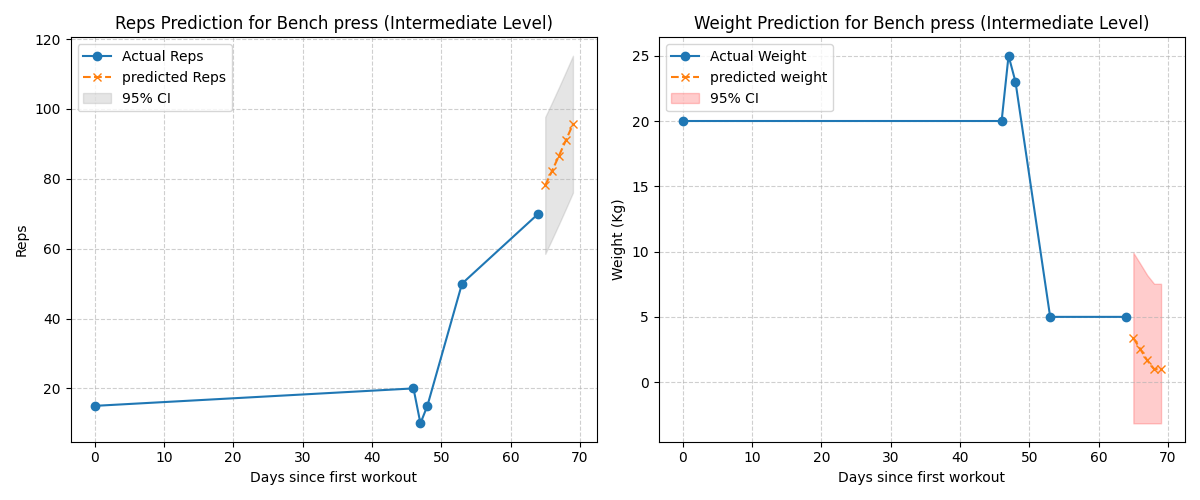
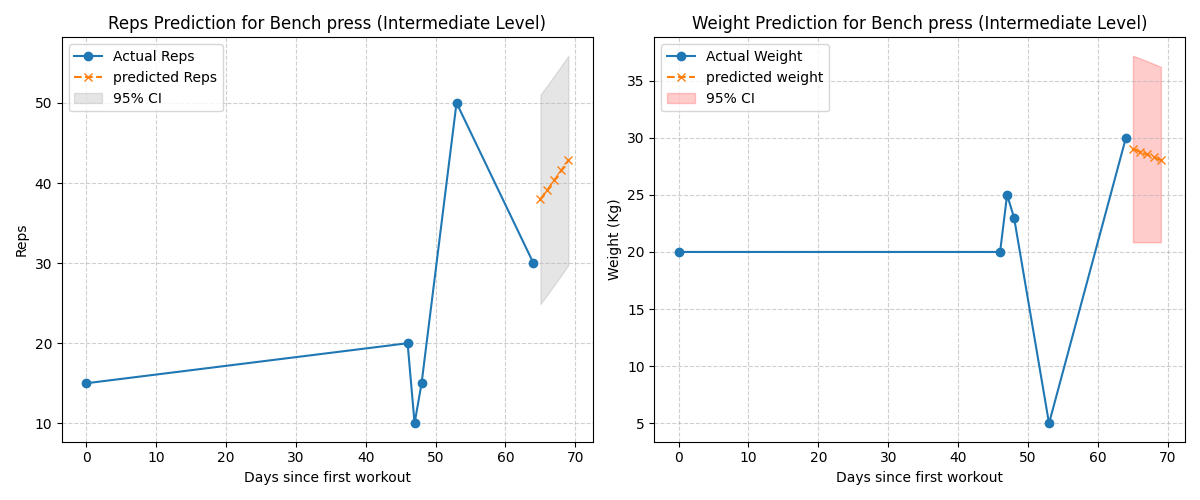
this should work

diff --git a/predictor.py b/predictor.py
@@ -97,22 +97,8 @@ def predict_targets(dates, reps, weights, user_level="intermediate", degree=2):
 
     future_reps = np.maximum(future_reps, last_reps)
     future_weights = np.maximum(future_weights, last_weights)
-# Trade off ensures that if weights increase for an exercise
-# Reps will be reduced proportionally 
-# This fully reflects real training as when weights increase reps may decrease
-    growth_rate = 0.02
-    max_growth_step = 2.5
-    for i in range(len(future_days)):
-        future_weights[i] = future_weights[i] * (1 + growth_rate)
-        if future_reps[i] > last_reps:
-            future_weights[i] = max(future_weights[i] - (future_reps[i] - last_reps) * 0.2, 1)
-# This is for the opposite scenario of reps increasing while weights decrease
-    growth = future_weights[i] - last_weights
-    if growth > max_growth_step * (i +1):
-        future_weights[i] = last_weights + max_growth_step * (i +1)
-   
-  
-   # basic if condition if user achieves 90% of the max reps or weights
+
+    # basic if condition if user achieves 90% of the max reps or weights
    # They can ugrade to the next level
     if user_level == "intermediate":
         max_reps, max_weights = 150, 80
@@ -120,6 +106,29 @@ def predict_targets(dates, reps, weights, user_level="intermediate", degree=2):
         max_reps, max_weights = 150, 120
     else: # user level is defaulted to intermediate
         max_reps, max_weights = 150, 80
+# Trade off ensures that if weights increase for an exercise
+# Reps will be reduced proportionally 
+# This fully reflects real training as when weights increase reps may decrease
+    growth_rate_weights = 0.02
+    growth_rate_reps = 0.01
+    max_growth_step = 2.5
+    for i in range(len(future_days)):
+        future_weights[i] = future_weights[i] * (1 + growth_rate_weights)
+        future_reps[i] = future_reps[i] * (1 + growth_rate_reps)
+
+        # If Weights are too high reps will faltten or dip
+        if future_weights[i] > max_weights * 0.9:
+            future_reps[i] = max(future_reps[i] - 0.3 * (future_weights[i] - last_weights), last_reps)
+
+        # If weights are too low reps will rise faster
+        if future_weights[i] < max_weights * 0.5:
+            future_reps[i] = future_reps[i] * 1.05
+        # Limits overly hgih growth for weights
+        growth = future_weights[i] - last_weights
+        if growth > max_growth_step * (i + 1):
+            future_weights[i] = last_weights + max_growth_step * (i + 1)
+  
+   
 
     if reps[-1] >= 0.9 * max_reps or weights[-1] >= 0.9 * max_weights: # sets 90% threshold
         user_level = "expert"
